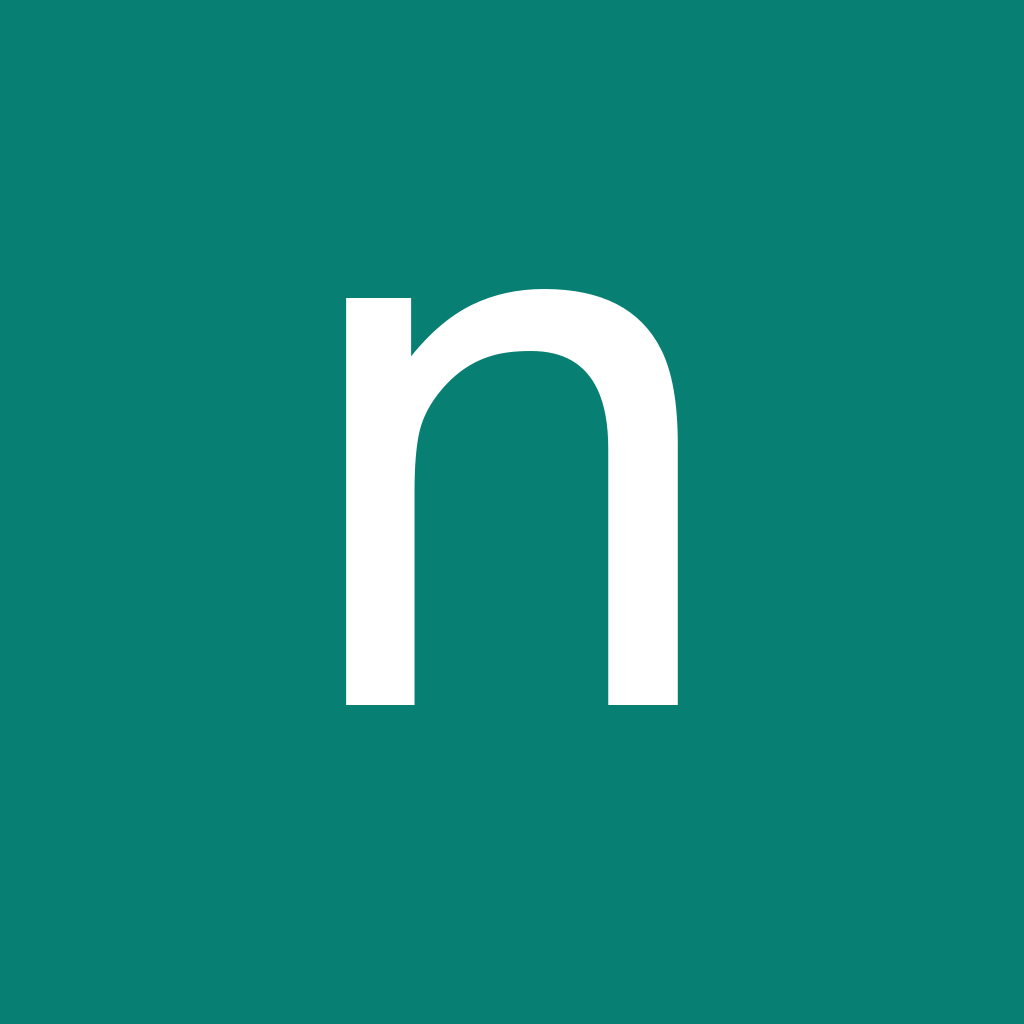
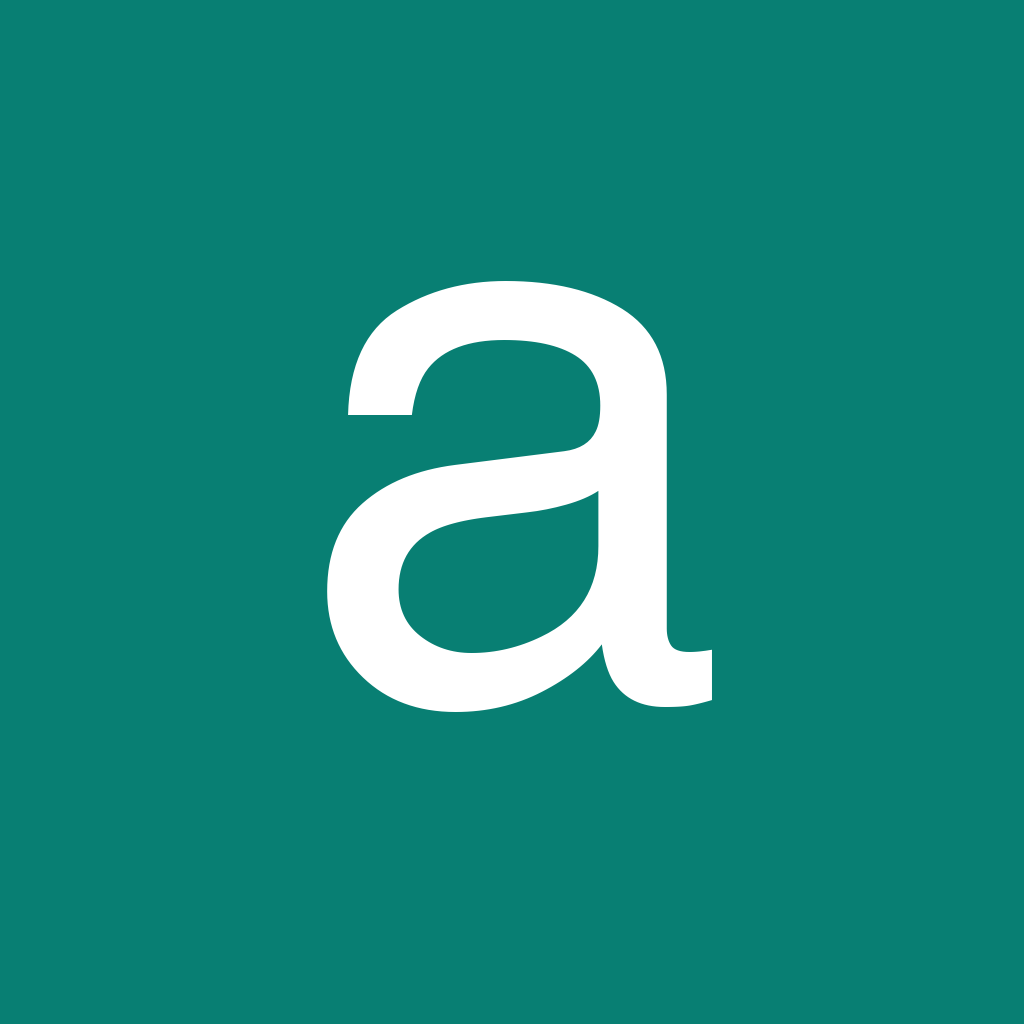
Rename ERP to Abastelo after name availability research

diff --git a/apps/mobile/App.tsx b/apps/mobile/App.tsx
@@ -145,7 +145,7 @@ const tabs = [
 ];
 const makeKey = () =>
   String(Date.now()) + "-" + Math.random().toString(36).slice(2);
-function Nexo() {
+function Abastelo() {
   const scanLock = useRef(false);
   const [credentials, setCredentials] = useState<Credentials | null>(null),
     [url, setUrl] = useState(process.env.EXPO_PUBLIC_API_URL || ""),
@@ -376,7 +376,7 @@ function Nexo() {
         >
           <ScrollView contentContainerStyle={s.login}>
             <Text style={s.brand}>
-              nexo<Text style={{ color: teal, fontSize: 18 }}>●</Text>
+              abastelo<Text style={{ color: teal, fontSize: 18 }}>●</Text>
             </Text>
             <Text style={s.title}>Conectar negocio</Text>
             <Text style={s.body}>
@@ -419,10 +419,10 @@ function Nexo() {
       <View style={s.header}>
         <View>
           <Text style={s.brandSmall}>
-            nexo<Text style={{ color: teal, fontSize: 18 }}>●</Text>
+            abastelo<Text style={{ color: teal, fontSize: 18 }}>●</Text>
           </Text>
           <Text style={s.small}>
-            {data?.org.name || "Nexo ERP"}
+            {data?.org.name || "Abastelo ERP"}
             {data?.org.demo ? " · Demo" : ""}
           </Text>
         </View>
@@ -1297,7 +1297,7 @@ function Nexo() {
 export default function App() {
   return (
     <SafeAreaProvider>
-      <Nexo />
+      <Abastelo />
     </SafeAreaProvider>
   );
 }

diff --git a/app/components/erp.tsx b/app/components/erp.tsx
@@ -284,7 +284,7 @@ export default function ERP({ children }: { children: ReactNode }) {
           <div className="panel-content">
             <p>
               Autoriza cada teléfono desde aquí e ingresa la clave en la app
-              Nexo. Los dispositivos tienen acceso a este negocio y sus
+              Abastelo. Los dispositivos tienen acceso a este negocio y sus
               operaciones.
             </p>
             <button className="secondary" onClick={() => open("device")}>
@@ -353,7 +353,7 @@ export default function ERP({ children }: { children: ReactNode }) {
       <aside className={"sidebar " + (menu ? "mobile-open" : "")}>
         <div className="brand-row">
           <Link className="brand" href="/">
-            nexo<span>●</span>
+            abastelo<span>●</span>
           </Link>
           <button
             className="icon-button mobile-menu"
@@ -368,7 +368,7 @@ export default function ERP({ children }: { children: ReactNode }) {
             <Store size={19} />
           </span>
           <div>
-            <strong>{data?.org.name || "Nexo ERP"}</strong>
+            <strong>{data?.org.name || "Abastelo ERP"}</strong>
             <small>{space === "demo" ? "Demostración" : "Mi empresa"}</small>
           </div>
         </div>

diff --git a/app/layout.tsx b/app/layout.tsx
@@ -5,21 +5,21 @@ import ERP from "./components/erp";
 const geist = Geist({ variable: "--font-geist-sans", subsets: ["latin"] });
 export const metadata: Metadata = {
   metadataBase: new URL(
-    "https://nexo-erp-colombia.sergiow.chatgpt.site",
+    "https://abastelo-erp.sergiow.chatgpt.site",
   ),
   icons: { icon: "/favicon.ico", apple: "/icon-192.png" },
-  applicationName: "Nexo ERP",
-  title: "Nexo ERP",
+  applicationName: "Abastelo ERP",
+  title: "Abastelo ERP",
   description:
     "Inventario, ventas, compras y reportes para comercios minoristas y mayoristas de Colombia.",
   openGraph: {
-    title: "Nexo ERP",
+    title: "Abastelo ERP",
     description:
       "Inventario, ventas y reportes para comercio minorista y mayorista.",
   },
   twitter: {
     card: "summary_large_image",
-    title: "Nexo ERP",
+    title: "Abastelo ERP",
     description: "El ERP para las PyMEs de Colombia.",
   },
 };

diff --git a/lib/service.ts b/lib/service.ts
@@ -356,7 +356,7 @@ export async function mutate(ctx: Context, path: string[], raw: any) {
     )
       throw new ApiError(
         409,
-        "Gestiona primero la nota crédito o el reembolso con el proveedor. No se puede anular desde Nexo.",
+        "Gestiona primero la nota crédito o el reembolso con el proveedor. No se puede anular desde Abastelo.",
       );
     if (raw.confirm !== true)
       throw new ApiError(

diff --git a/app/components/analysis-views.tsx b/app/components/analysis-views.tsx
@@ -519,7 +519,7 @@ export function Reports({
         "Todos los registros del negocio. No incluye secretos de conexión.",
       action: () =>
         download(
-          "nexo-registros-" + end + ".json",
+          "abastelo-registros-" + end + ".json",
           JSON.stringify(data, null, 2),
           "application/json",
         ),

diff --git a/app/manifest.ts b/app/manifest.ts
@@ -1,8 +1,8 @@
 import type { MetadataRoute } from "next";
 export default function manifest(): MetadataRoute.Manifest {
   return {
-    name: "Nexo ERP",
-    short_name: "Nexo",
+    name: "Abastelo ERP",
+    short_name: "Abastelo",
     description: "Inventario, ventas y reportes.",
     start_url: "/",
     display: "standalone",

diff --git a/scripts/generate-icons.py b/scripts/generate-icons.py
@@ -5,7 +5,7 @@ for size, path in [(192,'public/icon-192.png'),(512,'public/icon-512.png'),(1024
     image = Image.new('RGB',(size,size),'#087f73')
     draw = ImageDraw.Draw(image)
     font = ImageFont.truetype('/System/Library/Fonts/Helvetica.ttc',int(size*.76))
-    box=draw.textbbox((0,0),'n',font=font)
-    draw.text(((size-(box[2]-box[0]))/2-box[0],(size-(box[3]-box[1]))/2-box[1]-size*.015),'n',font=font,fill='white')
+    box=draw.textbbox((0,0),'a',font=font)
+    draw.text(((size-(box[2]-box[0]))/2-box[0],(size-(box[3]-box[1]))/2-box[1]-size*.015),'a',font=font,fill='white')
     image.save(root/path)
 Image.open(root/'public/icon-192.png').save(root/'app/favicon.ico',sizes=[(32,32),(48,48)])

diff --git a/docs/INTEGRATIONS.md b/docs/INTEGRATIONS.md
@@ -7,7 +7,7 @@ Documentation checked on September 6, 2026. Provider subscriptions, fiscal habil
 | Wompi Colombia        | Server-generated checkout integrity signatures; payment event SHA-256 verification; canonical transaction lookup; amount/currency/reference checks; idempotent settlement | Supply public/private keys and integrity/event secrets for one environment. Configure the webhook. Supports payment methods offered by your Wompi checkout, including available PSE/card/Nequi options. No raw card data is collected. Refunds remain a provider workflow.                                                                |
 | Shopify               | HMAC-verified `orders/paid` ingestion, COP amounts, SKU mapping, inventory deduction, deduplication                                                                       | Configure shop domain, webhook secret, and destination location. Catalog must exist first. Discount/tax amounts are read from order lines. Shipping, tips or non-line adjustments that do not reconcile to the order total are rejected for review. No automatic stock push, refund sync, fulfillment or historical backfill yet.         |
 | WooCommerce           | HMAC-verified paid order ingestion for `processing` and `completed`, COP, SKU mapping and deduplication                                                                   | Subscribe order-created/updated events. Same catalog and total reconciliation constraints as Shopify. Unpaid/cancelled status updates are ignored; refunds and historical backfill are manual.                                                                                                                                            |
-| Factus → DIAN         | OAuth password grant, fiscal preview, `POST /v2/bills/validate`, provider validation state and CUFE recorded                                                              | Requires your Factus account, active numbering range, and verified fiscal buyer data. Submission is explicit. `send_email=false`; Nexo does not send customer email automatically. Prices are mapped to net unit prices; review rounding and tax treatment in the preview. Credit/debit notes and electronic payroll are not implemented. |
+| Factus → DIAN         | OAuth password grant, fiscal preview, `POST /v2/bills/validate`, provider validation state and CUFE recorded                                                              | Requires your Factus account, active numbering range, and verified fiscal buyer data. Submission is explicit. `send_email=false`; Abastelo does not send customer email automatically. Prices are mapped to net unit prices; review rounding and tax treatment in the preview. Credit/debit notes and electronic payroll are not implemented. |
 | Excel / Google Sheets | Product CSV import with validation preview and all-or-nothing writes; CSV exports                                                                                         | Download the templates in the app. Amounts in COP pesos, decimal point, no thousands separator. Existing SKUs are skipped. Up to 1,000 rows / 1 MB per import. No live Google Sheets OAuth connector.                                                                                                                                     |
 | Banks                 | Normalized CSV statement import; duplicate bank ID checks; exact amount/direction matching to collections and supplier payments                                           | Map the bank's statement columns to `id,fecha,descripcion,monto`. Negative amounts mean money out. There is no direct Bancolombia, Davivienda, BBVA, Belvo, or ACH account connection. Fees, expenses and refund statement lines require manual handling.                                                                                 |
 | Accounting / Power BI | Detailed CSV and JSON exports, tax auxiliaries and cash movements                                                                                                         | Map the exports to the target chart of accounts or BI model. Not a native Siigo/Alegra API connection and not an automatic DIAN tax filing.                                                                                                                                                                                               |

diff --git a/docs/NAME-RESEARCH.md b/docs/NAME-RESEARCH.md
@@ -1,0 +1,30 @@
+# Name selection
+
+Checked September 7, 2026, 02:45 UTC (September 6 in Colombia).
+
+Selected name: **Abastelo ERP**. The name refers to *abasto* and *abastecer*, which fit retail and wholesale operations. Use the name without a tagline.
+
+## Why Nexo was replaced
+
+- [Nexo ERP, Colombia](https://nexoerp.com.co/nexo-erp/) markets POS, inventory, invoicing and business management software. Its site lists a Santa Marta address.
+- [Nexo, Nexoftware](https://www.nexoftware.com/) markets ERP, CRM and POS software under the same name.
+- [Nexo ERP, Chile](https://getnexo.app/) markets an ERP with sales, purchasing, inventory and finance modules.
+
+These are direct software-category conflicts, including one in the intended Colombian market.
+
+## Checks on Abastelo
+
+| Check | Observed result |
+| --- | --- |
+| Exact-name web searches, plus ERP, software, company and brand qualifiers | No competing software product found. General searches returned unrelated historical text, word lists and documents. |
+| Search-engine queries restricted to Google Play and Apple's App Store | No matching product surfaced. This only covers indexed pages. |
+| [Apple Search API, Colombia](https://itunes.apple.com/search?term=abastelo&entity=software&country=co&limit=10) | Zero results. |
+| [Apple Search API, United States](https://itunes.apple.com/search?term=abastelo&entity=software&country=us&limit=10) | One fuzzy result, MarCoreo; no app named Abastelo. |
+| [GitHub repository search API](https://api.github.com/search/repositories?q=abastelo) | Zero public repository results. |
+| [Verisign .com registry RDAP](https://rdap.verisign.com/com/v1/domain/abastelo.com) | HTTP 404: no registration record returned at the time of checking. No domain was purchased or reserved. |
+
+This is preliminary naming research, not proof of worldwide exclusivity or trademark clearance. No formal trademark-register or phonetic-conflict search was completed. Colombia's [SIC trademark resources](https://sedeelectronica.sic.gov.co/temas/propiedad-industrial/marcas) link to SIPI and international search tools for that separate review. Domain and store availability can change.
+
+## Compatibility
+
+Visible branding, app display names, icons, package labels and export filenames use Abastelo. Existing native bundle IDs, device storage keys, cookies, API headers and deployment resource identifiers remain stable so the rename does not disconnect installed clients or select a different business database. The GitHub repository remains `ethanrimes/pyme-colombia`.

diff --git a/docs/DEPLOYMENT.md b/docs/DEPLOYMENT.md
@@ -41,7 +41,7 @@ This path creates infrastructure in your own Cloudflare account and can receive 
    npx wrangler deploy --config .deployment-config.json
    ```
 
-5. Open the deployed URL and choose **Conectar con clave**. Enter the admin access key. Nexo creates an empty business on first authenticated access. The web session uses an HttpOnly, SameSite=Strict cookie lasting eight hours. Authorize phones from **Configuración**, then configure provider webhooks against this same HTTPS origin.
+5. Open the deployed URL and choose **Conectar con clave**. Enter the admin access key. Abastelo creates an empty business on first authenticated access. The web session uses an HttpOnly, SameSite=Strict cookie lasting eight hours. Authorize phones from **Configuración**, then configure provider webhooks against this same HTTPS origin.
 
 The standalone bootstrap admin key selects one organization. The demo/live selector cannot change the organization attached to an API/device key. Rotate the admin key by replacing its hash. Device keys can be individually revoked. Take care to back up the encryption key before rotating it: existing encrypted integration configurations require the old key until re-encrypted.
 

diff --git a/README.md b/README.md
@@ -1,6 +1,8 @@
-# Nexo ERP
+# Abastelo ERP
 
-[Open the private web app](https://nexo-erp-colombia.sergiow.chatgpt.site).
+[Open the private web app](https://abastelo-erp.sergiow.chatgpt.site).
+
+[Name research and availability checks](docs/NAME-RESEARCH.md).
 
 An operational ERP for Colombian retail and wholesale businesses, with a Spanish web app and native iOS/Android apps. Money is stored in integer COP cents; business dates use `America/Bogota`.
 
